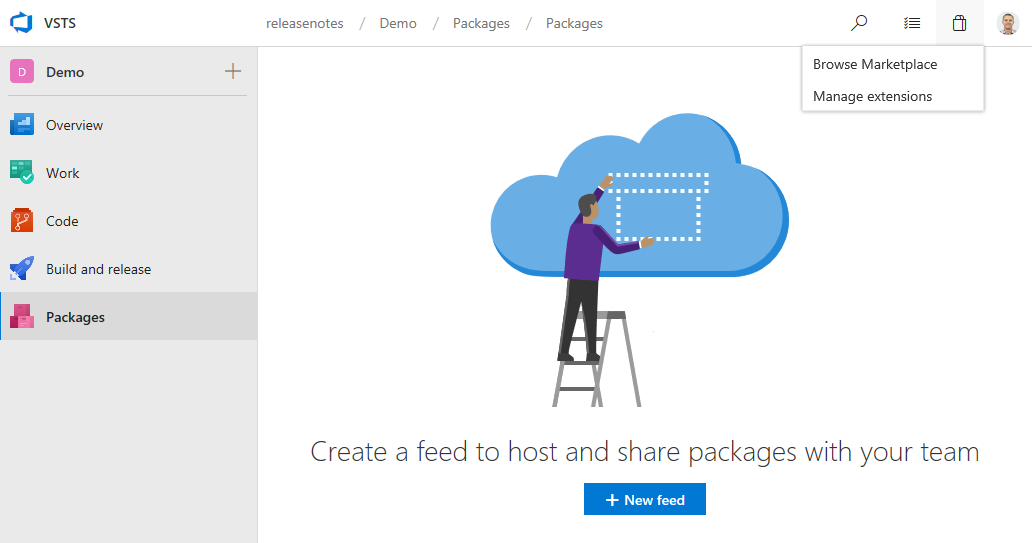
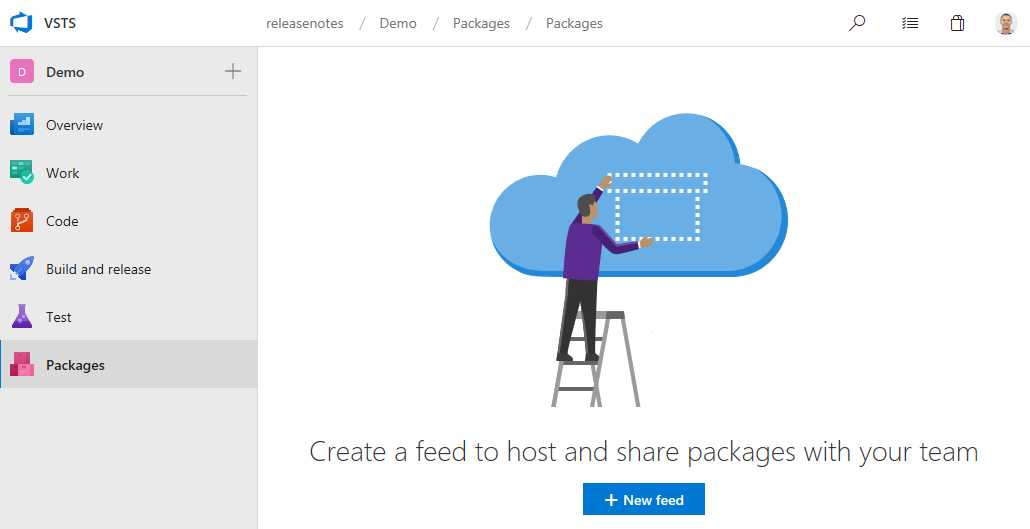
Fix the package management screenshot

diff --git a/release-notes/2018/jul-10-vsts.md b/release-notes/2018/jul-10-vsts.md
@@ -124,7 +124,7 @@ Release gates enable automatic evaluation of health criteria before a release is
 
 ### Get started with pre-installed Package Management
 
-The Package Management extension is pre-installed into all accounts. If you're using the new navigation preview, look for the pink stack of packages just below the test tube. If you're still on the current navigation, look for the **Packages** hub in the **Build and release** hub group. Each account comes with 5 free Package Management users, and additional users can be purchased from [the Marketplace](https://marketplace.visualstudio.com/items?itemName=ms.feed). Manage extensions using the menu in the top-right of the navigation.
+The Package Management extension is pre-installed into all accounts. If you're using the new navigation preview, look for it at the bottom of the list of services. If you're still on the current navigation, look for the **Packages** hub in the **Build and release** hub group. Each account comes with 5 free Package Management users, and additional users can be purchased from [the Marketplace](https://marketplace.visualstudio.com/items?itemName=ms.feed). Manage extensions using the menu in the top-right of the navigation.
 
 > [!div class="mx-imgBorder"]
 ![Packages service](_img/137_06.png)
